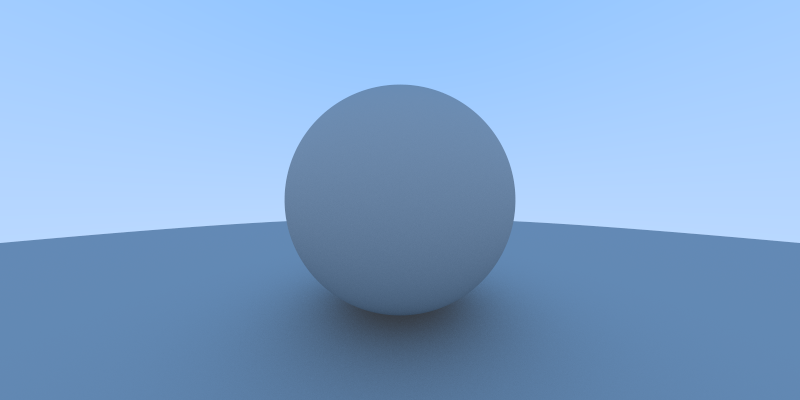
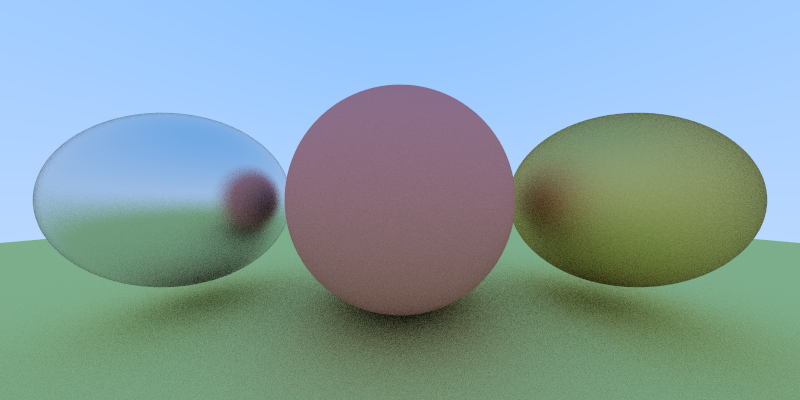
Added support for metallic BRDF
* Added a material class to handle different BRDF
* Added Metallic and Lambertian material classes

@test
Rendered scene with metallic objects

diff --git a/src/main.cpp b/src/main.cpp
@@ -15,12 +15,14 @@
 #include "core/scene.h"
 #include "geometrics/sphere.h"
 #include "camera/camera.h"
+#include "material/lambertian.h"
+#include "material/metallic.h"
 
 #define OUTPUT_WIDTH 800
 #define OUTPUT_HEIGHT 400
 #define NUM_CHANNELS 3
-#define NUM_SAMPLES_PER_PIXEL 16
-#define NUM_BOUNDCE_PER_RAY 16
+#define NUM_SAMPLES_PER_PIXEL 64
+#define NUM_BOUNDCE_PER_RAY 4
 
 Vector3f SkyGradient(const Ray& r)
 {
@@ -33,28 +35,29 @@ Vector3f SkyGradient(const Ray& r)
     return LERP(white, skyBlue, t);
 }
 
-Vector3f RandomInUnitSphere()
+Vector3f ShadePixel(const Ray& viewRay, const Scene& scene, int depth)
 {
-    Vector3f p;
+    GeometryHitInfo hit;
 
-    do {
-        p = 2.0f * Vector3f(RAND01(), RAND01(), RAND01()) - Vector3f(1.0f);
-    } while (p.SquareMagnitude() >= 1.0f);
-
-    return p;
-}
-
-Vector3f ShadePixel(const Ray& viewRay, const Scene& scene, int bounce)
-{
-    RayHitRecord hit;
-
-    if (bounce == 0)
-        return SkyGradient(viewRay);
+    // max bounce reached
+    if (depth == 0)
+        return Vector3f(0.0f); // assume no light at all
 
     if (scene.RaytraceScene(viewRay, hit))
     {
-        Vector3f target = hit.point + hit.normal + RandomInUnitSphere();
-        return 0.5f * ShadePixel(Ray(hit.point, target - hit.point), scene, bounce - 1);
+        Ray scatteredRay;
+        Vector3f attenuation;
+
+        if (hit.pMaterial->Scatter(viewRay, hit, attenuation, scatteredRay))
+        {
+            // recursively collect color contribution
+            return attenuation * ShadePixel(scatteredRay, scene, depth - 1);
+        }
+        else
+        {
+            // If scattered ray did not intersec with any object, assume we hit sky
+            return SkyGradient(viewRay);
+        }
     }
     else
     {
@@ -66,8 +69,12 @@ Scene* GenerateScene()
 {
     Scene* scene = new Scene();
 
-    scene->AddPrimitive(new Sphere(Vector3f(0.0f, 0.0f, -1.0f), 0.5f));
-    scene->AddPrimitive(new Sphere(Vector3f(0.0f, -100.5f, -1.0f), 100.0f));
+    scene->AddPrimitive(new Sphere(Vector3f(0.0f, 0.0f, -1.0f), 0.5f, new Lambertian(Vector3f(0.8f, 0.3f, 0.3f))));
+    scene->AddPrimitive(new Sphere(Vector3f(1.0f, 0.0f, -1.0f), 0.4f, new Metallic(Vector3f(0.8f, 0.6f, 0.2f), 1.0f)));
+    scene->AddPrimitive(new Sphere(Vector3f(-1.0f, 0.0f, -1.0f), 0.4f, new Metallic(Vector3f(0.8f), 0.3f)));
+
+    // Floor
+    scene->AddPrimitive(new Sphere(Vector3f(0.0f, -100.5f, -1.0f), 100.0f, new Lambertian(Vector3f(0.8f, 0.8f, 0.3f))));
 
     return scene;
 }

diff --git a/src/geometrics/sphere.cpp b/src/geometrics/sphere.cpp
@@ -1,6 +1,6 @@
 #include "sphere.h"
 
-bool Sphere::Hit(const Ray & ray, RayHitRecord & hit) const
+bool Sphere::Hit(const Ray & ray, GeometryHitInfo & hit) const
 {
     Vector3f oc = ray.m_Origin - m_Center;
     float a = Dot(ray.m_Direction, ray.m_Direction);
@@ -19,6 +19,7 @@ bool Sphere::Hit(const Ray & ray, RayHitRecord & hit) const
             hit.t = hitPoint1;
             hit.point = ray(hit.t);
             hit.normal = (hit.point - m_Center) / m_Radius;
+            hit.pMaterial = m_pMaterial;
             return true;
         }
 
@@ -27,6 +28,7 @@ bool Sphere::Hit(const Ray & ray, RayHitRecord & hit) const
             hit.t = hitPoint2;
             hit.point = ray(hit.t);
             hit.normal = (hit.point - m_Center) / m_Radius;
+            hit.pMaterial = m_pMaterial;
             return true;
         }
     }

diff --git a/src/material/metallic.h b/src/material/metallic.h
@@ -1,0 +1,26 @@
+#ifndef __MATERIAL_METALLIC_H__
+#define __MATERIAL_METALLIC_H__
+
+#include "material.h"
+
+class Metallic : public Material
+{
+public:
+    Metallic(const Vector3f& a, const Vector3f& r) : m_Albedo(a), m_Roughness(r) {}
+
+    virtual bool Scatter(const Ray& incomingRay, const GeometryHitInfo& hitInfo, Vector3f& attenuation, Ray& scattered) const
+    {
+        Vector3f reflected = Reflect(incomingRay.m_Direction.Normalized(), hitInfo.normal);
+        scattered = Ray(hitInfo.point, reflected + m_Roughness * RandomInUnitSphere());
+        attenuation = m_Albedo;
+
+        return (Dot(scattered.m_Direction, hitInfo.normal) > 0);
+    }
+
+public:
+    Vector3f m_Albedo;
+    Vector3f m_Roughness;
+};
+
+#endif // !__MATERIAL_METALLIC_H__
+

diff --git a/src/math/vector3.h b/src/math/vector3.h
@@ -105,12 +105,6 @@ inline Vector3<T> operator/(const Vector3<T>& v, float t)
 }
 
 template<class T>
-inline void Normalize(const Vector3<T>& v)
-{
-    v = v.Normalized();
-}
-
-template<class T>
 inline float Dot(const Vector3<T>& v1, const Vector3<T>& v2)
 {
     return v1.x * v2.x + v1.y * v2.y + v1.z * v2.z;
@@ -122,5 +116,11 @@ inline Vector3<T> Cross(const Vector3<T>& v1, const Vector3<T>& v2)
     return Vector3<T>((v1.y * v2.z - v1.z * v2.y),
                      -(v1.x * v2.z - v1.z * v2.x),
                       (v1.x * v2.y - v1.y * v2.x));
+}
+
+template<class T>
+inline Vector3<T> Reflect(const Vector3<T>& v, const Vector3<T>& n)
+{
+    return v - 2 * Dot(v, n) * n;
 }
 #endif // !__MATH_VECTOR3_H__

diff --git a/src/material/lambertian.h b/src/material/lambertian.h
@@ -1,0 +1,25 @@
+#ifndef __MATERIAL_LAMBERTIAN_H__
+#define __MATERIAL_LAMBERTIAN_H__
+
+#include "material.h"
+
+class Lambertian : public Material
+{
+public:
+    Lambertian(const Vector3f& a) : m_Albedo(a) {}
+
+    virtual bool Scatter(const Ray& in, const GeometryHitInfo& hitInfo, Vector3f& attenuation, Ray& scattered) const 
+    {
+        Vector3f target = hitInfo.point + hitInfo.normal + RandomInUnitSphere();
+        scattered = Ray(hitInfo.point, target - hitInfo.point);
+        attenuation = m_Albedo;
+        return true;
+    }
+
+public:
+    Vector3f m_Albedo;
+
+};
+
+#endif // !__MATERIAL_LAMBERTIAN_H__
+

diff --git a/src/geometrics/geometry.h b/src/geometrics/geometry.h
@@ -1,20 +1,23 @@
-#ifndef __CORE_GEOMETRY_H__
-#define __CORE_GEOMETRY_H__
+#ifndef __GEOMETRICS_GEOMETRY_H__
+#define __GEOMETRICS_GEOMETRY_H__
 
 #include "math/ray.h"
 
-struct RayHitRecord
+class Material;
+
+struct GeometryHitInfo
 {
     float t;
     Vector3f point;
     Vector3f normal;
+    Material* pMaterial;
 };
 
 class Geometry
 {
 public:
-    virtual bool Hit(const Ray& ray, RayHitRecord& hit) const = 0;
+    virtual bool Hit(const Ray& ray, GeometryHitInfo& hit) const = 0;
 };
 
-#endif // !__CORE_GEOMETRY_H__
+#endif // !__GEOMETRICS_GEOMETRY_H__
 

diff --git a/src/geometrics/sphere.h b/src/geometrics/sphere.h
@@ -7,9 +7,12 @@ class Sphere: public Geometry
 {
 public:
     Sphere() {}
-    Sphere(Vector3f center, float radius) : m_Center(center), m_Radius(radius) {};
+    Sphere(Vector3f center, float radius, Material* material) : m_Center(center), m_Radius(radius), m_pMaterial(material) {};
 
-    virtual bool Hit(const Ray& ray, RayHitRecord& hit) const;
+    virtual bool Hit(const Ray& ray, GeometryHitInfo& hit) const;
+
+public:
+    Material* m_pMaterial;
 
 public:
     Vector3f m_Center;

diff --git a/src/core/scene.cpp b/src/core/scene.cpp
@@ -19,9 +19,9 @@ void Scene::AddPrimitive(Geometry* geometry)
     m_Primitives.push_back(geometry);
 }
 
-bool Scene::RaytraceScene(const Ray& viewRay, RayHitRecord& hitInfo) const
+bool Scene::RaytraceScene(const Ray& viewRay, GeometryHitInfo& hitInfo) const
 {
-    RayHitRecord tempHitInfo;
+    GeometryHitInfo tempHitInfo;
 
     bool hitAnything = false;
 

diff --git a/src/material/material.h b/src/material/material.h
@@ -1,0 +1,14 @@
+#ifndef __MATERIAL_H__
+#define __MATERIAL_H__
+
+#include "geometrics/geometry.h"
+#include "math/utils.h"
+
+class Material
+{
+public:
+    virtual bool Scatter(const Ray& in, const GeometryHitInfo& hitInfo, Vector3f& attenuation, Ray& scattered) const = 0;
+
+};
+#endif // !__MATERIAL_H__
+

diff --git a/src/math/utils.h b/src/math/utils.h
@@ -12,4 +12,14 @@
 
 #define RAND01() (float)rand() / RAND_MAX
 
+Vector3f RandomInUnitSphere()
+{
+    Vector3f p;
+
+    do {
+        p = 2.0f * Vector3f(RAND01(), RAND01(), RAND01()) - Vector3f(1.0f);
+    } while (p.SquareMagnitude() >= 1.0f);
+
+    return p;
+}
 #endif // !__MATH_UTILS_H__

diff --git a/src/core/scene.h b/src/core/scene.h
@@ -13,7 +13,7 @@ public:
     
     void AddPrimitive(Geometry* geometry);
 
-    bool RaytraceScene(const Ray& viewRay, RayHitRecord& hitInfo) const;
+    bool RaytraceScene(const Ray& viewRay, GeometryHitInfo& hitInfo) const;
 
 private:
     std::vector<Geometry*> m_Primitives;
